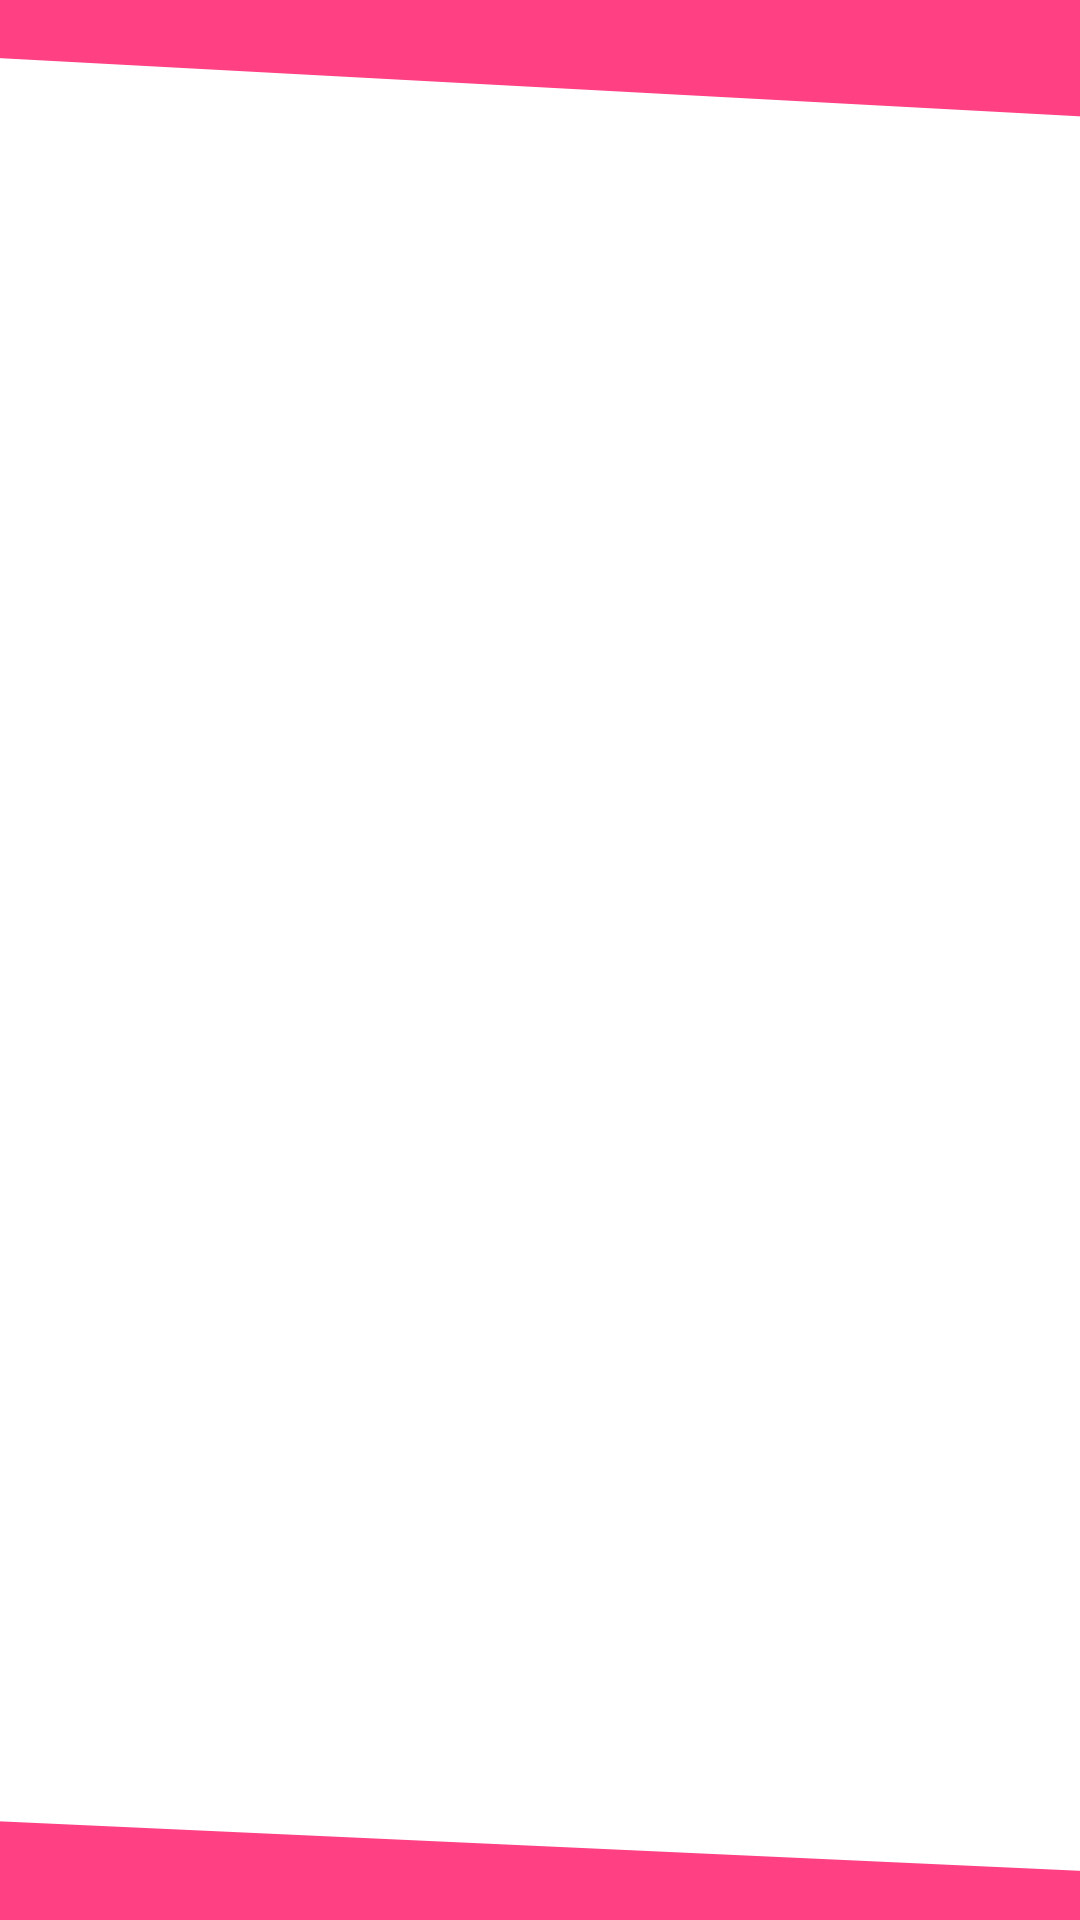
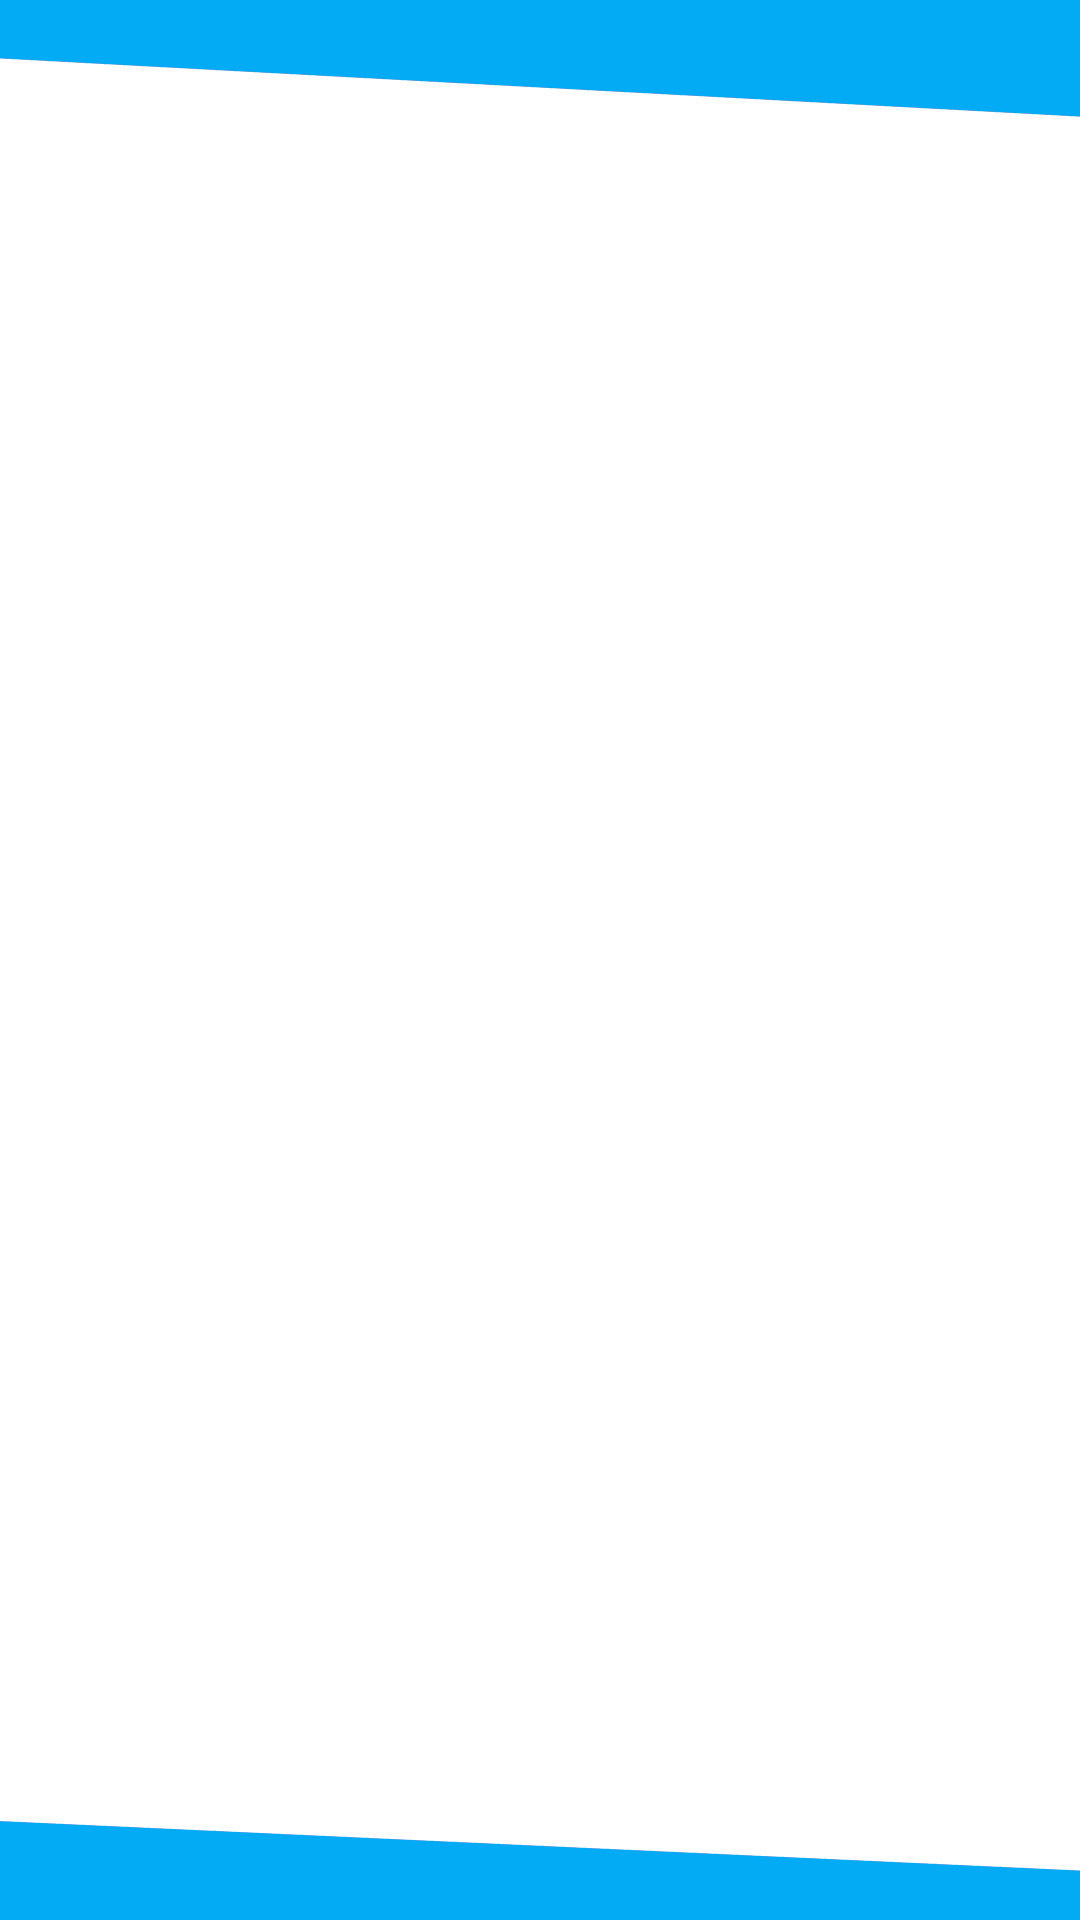
Update UI colors

Changed region(s): [[0.0, 0.0, 1.0, 0.0625], [0.0, 0.9375, 1.0, 1.0]]

diff --git a/src/components/forms/AnswerForm.js b/src/components/forms/AnswerForm.js
@@ -14,12 +14,12 @@ class AnswerForm extends Component {
         <Field name="answerText" component={TextAreaInput} />
         <Button
           title="Answer"
-          borderRadius={4}
+          borderRadius={25}
           fontSize={14}
           fontWeight="bold"
           fontFamily="monospace"
           color="#FFF"
-          backgroundColor="#03A9F4"
+          backgroundColor="#FF4081"
           onPress={handleSubmit(onSubmit)}
           containerViewStyle={styles.containerViewStyle}
         />
@@ -30,7 +30,10 @@ class AnswerForm extends Component {
 
 const styles = StyleSheet.create({
   containerViewStyle: {
-    marginTop: 10
+    marginTop: 10,
+    borderWidth: 2,
+    borderColor: '#FFF',
+    borderRadius: 25
   }
 });
 

diff --git a/src/screens/AnswerScreen.js b/src/screens/AnswerScreen.js
@@ -46,7 +46,7 @@ class AnswerScreen extends Component {
         <HeartYouHeader leftComponent={this.renderLeftComponent()} navigation={navigation} />
         <View style={styles.containerStyle}>
           <Text style={styles.titleStyle}>Answer</Text>
-          <Text style={styles.questionBodyStyle}>
+          <Text style={styles.questionTextStyle}>
             {question.questionText}
           </Text>
           <AnswerForm onSubmit={this.onSubmitForm} />
@@ -63,9 +63,10 @@ const styles = StyleSheet.create({
   },
   titleStyle: {
     fontSize: 40,
-    color: '#03A9F4'
+    color: '#FF4081'
   },
-  questionBodyStyle: {
+  questionTextStyle: {
+    fontWeight: 'bold',
     marginLeft: 10,
     marginRight: 10
   }

diff --git a/src/components/SideBarMenu.js b/src/components/SideBarMenu.js
@@ -136,7 +136,7 @@ class SideBarMenu extends Component {
               fontSize={14}
               fontWeight="bold"
               fontFamily="monospace"
-              backgroundColor="#03A9F4"
+              backgroundColor="#FF4081"
               containerViewStyle={styles.containerViewStyle}
             />
             <Button
@@ -147,7 +147,7 @@ class SideBarMenu extends Component {
               fontSize={14}
               fontWeight="bold"
               fontFamily="monospace"
-              backgroundColor="#03A9F4"
+              backgroundColor="#1565C0"
               containerViewStyle={styles.containerViewStyle}
             />
           </View>

diff --git a/src/components/TextAreaInput.js b/src/components/TextAreaInput.js
@@ -2,12 +2,17 @@ import React from 'react';
 import { View, StyleSheet } from 'react-native';
 import { FormInput, FormValidationMessage } from 'react-native-elements';
 
-export default ({ input: { onChange, onBlur, ...restInput }, meta: { error, touched }, secureTextEntry }) => (
+export default ({
+  input: { onChange, onBlur, ...restInput },
+  meta: { error, touched },
+  secureTextEntry, placeholder
+}) => (
   <View>
     <FormInput
       multiline
       numberOfLines={5}
       underlineColorAndroid={0}
+      placeholder={placeholder}
       secureTextEntry={secureTextEntry}
       inputStyle={styles.inputFieldStyle}
       onChangeText={onChange}

diff --git a/src/components/forms/RegisterForm.js b/src/components/forms/RegisterForm.js
@@ -27,7 +27,7 @@ class RegisterForm extends Component {
             fontWeight="bold"
             fontFamily="monospace"
             color="#FFF"
-            backgroundColor="#26A69A"
+            backgroundColor="#FF4081"
             containerViewStyle={styles.containerViewStyle}
           />
           <Button
@@ -50,7 +50,7 @@ class RegisterForm extends Component {
 const styles = StyleSheet.create({
   inputFieldStyle: {
     borderWidth: 2,
-    borderColor: '#FF4081',
+    borderColor: '#03A9F4',
     borderRadius: 25,
     backgroundColor: '#FFF',
     color: '#000',

diff --git a/src/screens/LoginScreen.js b/src/screens/LoginScreen.js
@@ -118,7 +118,7 @@ const styles = StyleSheet.create({
     fontSize: 16
   },
   registerTextStyle: {
-    color: '#A7FFEB',
+    color: '#FFF',
     fontFamily: 'monospace',
     marginTop: 15
   },
@@ -132,7 +132,7 @@ const styles = StyleSheet.create({
     marginVertical: 15
   },
   googleLoginTextStyle: {
-    color: '#A7FFEB',
+    color: '#FFF',
     fontFamily: 'monospace'
   },
   loadingContainerStyle: {

diff --git a/src/components/forms/LoginForm.js b/src/components/forms/LoginForm.js
@@ -21,7 +21,7 @@ class LoginForm extends Component {
             fontWeight="bold"
             fontFamily="monospace"
             color="#FFF"
-            backgroundColor="#26A69A"
+            backgroundColor="#FF4081"
             containerViewStyle={styles.containerViewStyle}
           />
         </View>

diff --git a/src/screens/RegisterScreen.js b/src/screens/RegisterScreen.js
@@ -55,7 +55,7 @@ const styles = StyleSheet.create({
   titleStyle: {
     marginVertical: 50,
     fontSize: 40,
-    color: '#FF4081',
+    color: '#03A9F4',
     fontFamily: 'monospace',
     fontWeight: 'bold',
   },

diff --git a/src/screens/ProfileScreen.js b/src/screens/ProfileScreen.js
@@ -208,7 +208,7 @@ const styles = StyleSheet.create({
     marginBottom: 10
   },
   messageTextStyle: {
-    color: '#F44336',
+    color: '#FF4081',
     fontSize: 12
   }
 });
